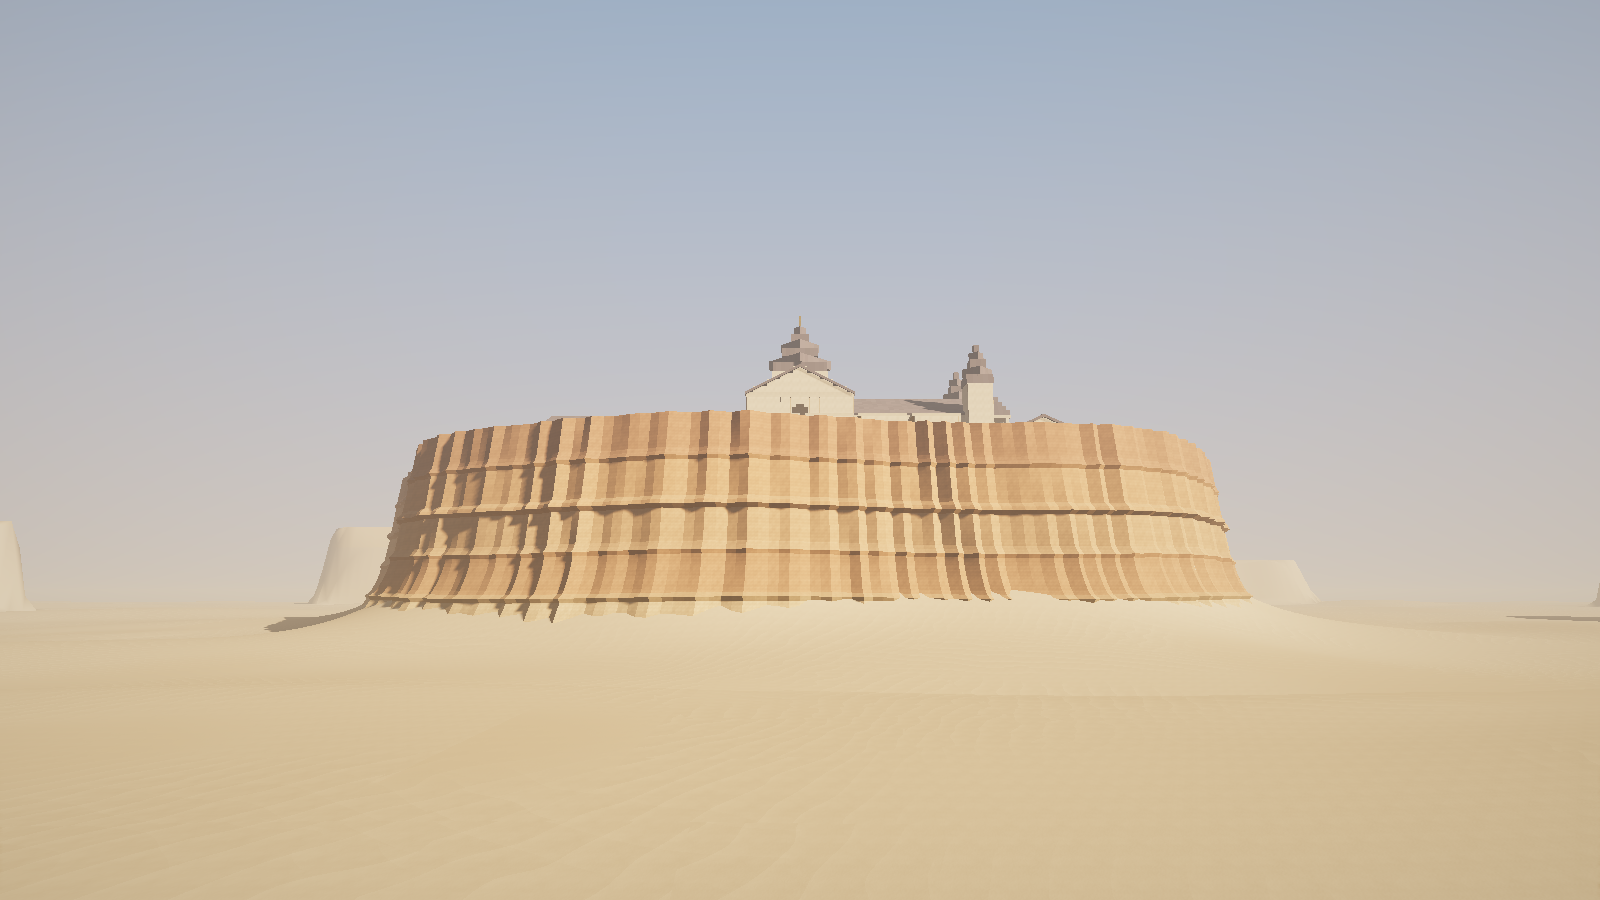
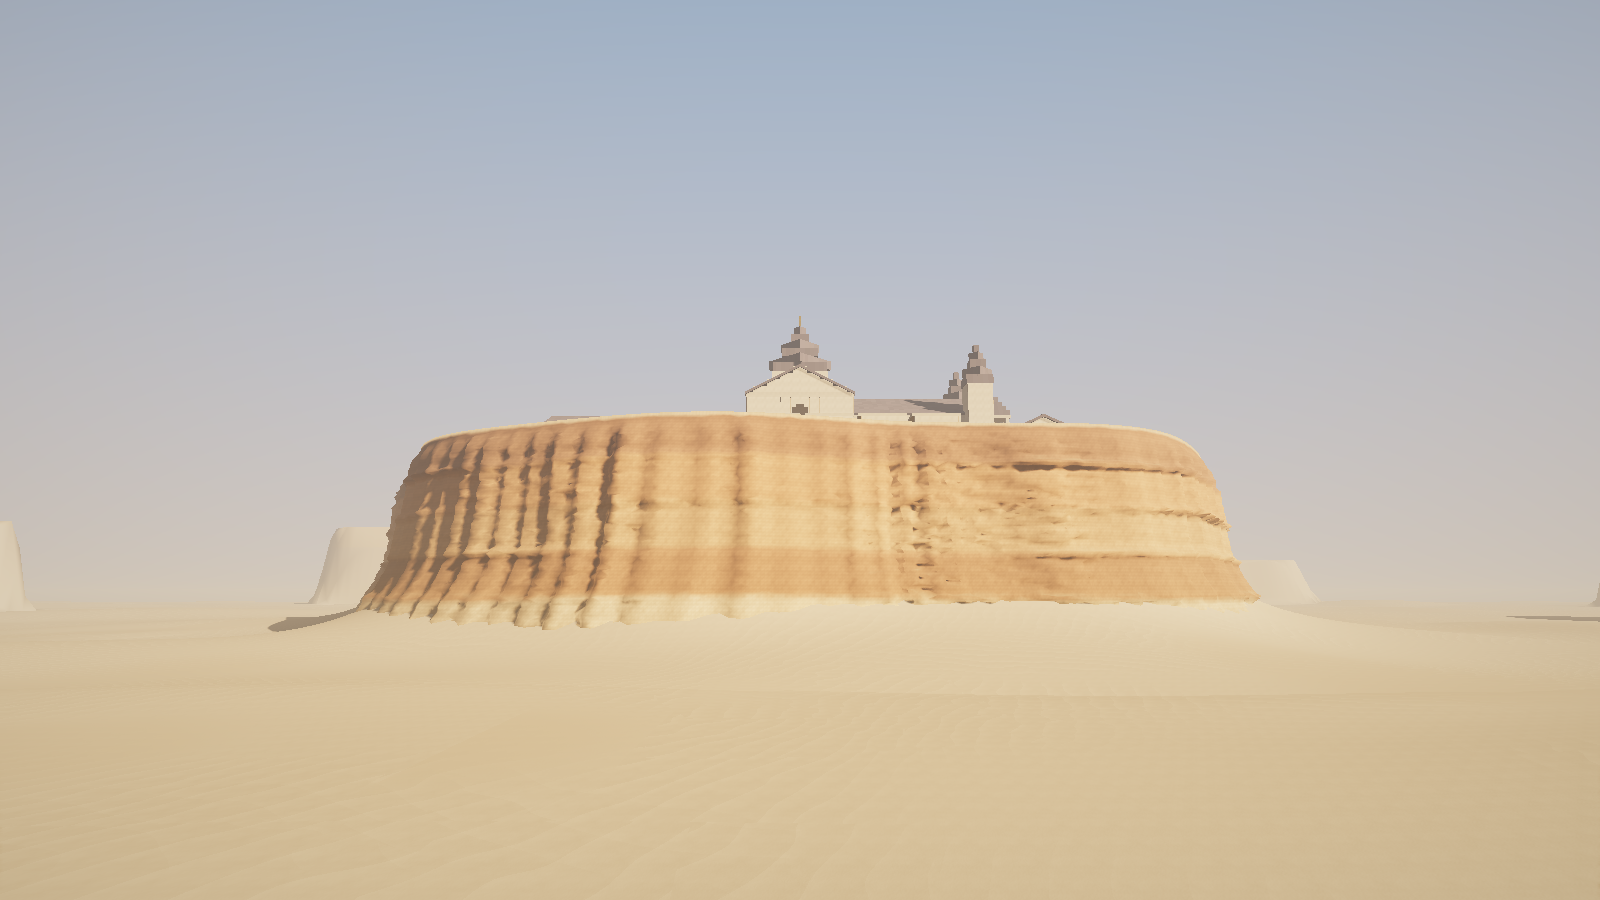
Sanctum cliff: smooth-shaded, jittered rock instead of a tiled grid
The first pass read as a quilted waffle up close: a regular grid of
flat-shaded quads with flat colors and ledges running unbroken round
the mesa. Now the vertices are shared and jittered, the triangle
diagonals alternate, normals are smoothed, colors are per vertex
(bands blending, streaks varying smoothly), ledges come and go along
their band, and the flutes open out below the lip so the rim runs
smooth. The lip's cap reaches in far enough to cover the heightfield's
grid-stepped drop.

Claude-Session: https://claude.ai/code/session_01MEmTqCZq85o86svZvgDnH5

Changed region(s): [[0.2188, 0.4356, 0.7812, 0.7156]]

diff --git a/src/map/sanctum.rs b/src/map/sanctum.rs
@@ -70,10 +70,6 @@ fn past_edge(p: Vec2) -> f32 {
     d.length() - rim(d.y.atan2(d.x))
 }
 
-/// One point down a column of the cliff face: its height, how far out from
-/// the rim it stands, and which band of rock it's in (0: the cap).
-type FacePoint = (f32, f32, u32);
-
 /// The mesa's top: flat round the church, a gentle roll further out.
 fn mesa_top(x: f32, z: f32) -> f32 {
     let r = Vec2::new(x, z).distance(CENTER);
@@ -216,109 +212,159 @@ impl Map {
     }
 
     /// The cliff face: one sculpted surface of rock all round the edge,
-    /// over the heightfield's drop. A lip at the top; fluted columns running
-    /// down it; bands of harder rock stepping out as ledges, each its own
-    /// shade; its foot buried in the scree.
+    /// over the heightfield's drop. A lip at the top; uneven fluted columns
+    /// down it; bands of harder rock set in or out, with ledges that come
+    /// and go along them; its foot flaring into the scree. Smooth shaded,
+    /// its grid jittered so it doesn't read as tiles, its color blended
+    /// between bands and streaked down the face.
     fn cliffs(&mut self) {
-        let m = &mut self.sculpted;
-        let n = 360;
+        use crate::render::mesh::Vertex;
         const BAND: f32 = 8.0;
         const SHADES: [Vec3; 5] = [
-            Vec3::new(0.66, 0.46, 0.32),
-            Vec3::new(0.56, 0.36, 0.25),
-            Vec3::new(0.74, 0.58, 0.42),
-            Vec3::new(0.5, 0.32, 0.23),
-            Vec3::new(0.62, 0.41, 0.28),
+            Vec3::new(0.7, 0.47, 0.31),
+            Vec3::new(0.48, 0.29, 0.19),
+            Vec3::new(0.8, 0.63, 0.45),
+            Vec3::new(0.42, 0.26, 0.18),
+            Vec3::new(0.64, 0.4, 0.26),
         ];
         let hash = |i: u32, k: u32| {
             let h = i.wrapping_mul(0x9E37_79B9) ^ k.wrapping_mul(0x85EB_CA6B);
             let h = (h ^ (h >> 15)).wrapping_mul(0x2C1B_3C6D);
             (h ^ (h >> 12)) as f32 / u32::MAX as f32
         };
+        // Smooth noise along the rim: `cells` bumps round it, seeded by `k`.
+        let wave = |a: f32, cells: f32, k: u32| {
+            let x = a / TAU * cells;
+            let (i, f) = (x.floor(), x.fract());
+            let n = cells as u32;
+            let at = |j: f32| hash((j as i64).rem_euclid(n as i64) as u32, k);
+            let f = f * f * (3.0 - 2.0 * f);
+            at(i) * (1.0 - f) + at(i + 1.0) * f
+        };
         // How far out from the rim the face stands at angle `a`, `depth` m
         // down from the top.
         let face = |a: f32, depth: f32| {
             let s = (depth / 40.0).clamp(0.0, 1.0);
-            // Columns of uneven width: the phase wanders round the rim.
             let phase = a * 120.0 + 9.0 * (a * 3.0).sin() + 4.0 * (a * 7.0 + 1.0).sin();
-            let col = (phase / TAU).floor() as u32;
             let groove =
                 (0.5 + 0.5 * (phase + 0.5 * (depth * 0.11 + a * 13.0).sin()).cos()).powf(0.6);
-            let flute = groove * (0.6 + 1.4 * hash(col, 7)) + 0.4 * (a * 37.0 + depth * 0.05).sin();
+            let flute =
+                groove * (0.6 + 2.0 * wave(a, 60.0, 7)) + 0.4 * (a * 37.0 + depth * 0.05).sin();
             let f = (depth / BAND).fract();
             let band = (depth / BAND).floor() as u32;
-            // Each band set in or out of the face; harder rock at its foot
-            // stepping out as a ledge.
-            let set = 0.9 * (hash(band, 11) - 0.5);
-            let ledge = (0.5 + 0.6 * hash(band, 3)) * smoothstep(0.8, 0.97, f);
-            // The foot flares out into the scree.
-            let flare = 4.0 * smoothstep(0.62, 1.0, s);
-            1.2 + 4.5 * s + flute.max(0.0) + set + ledge + flare
+            let set = 0.9 * (wave(a, 9.0, band + 20) - 0.5);
+            // Ledges come and go along the band.
+            let ledge =
+                1.6 * (1.4 * wave(a, 24.0, band + 40) - 0.35).max(0.0) * smoothstep(0.8, 0.97, f);
+            let flare = 5.0 * smoothstep(0.55, 1.0, s);
+            // The flutes open out below the lip, so the rim runs smooth.
+            let open = smoothstep(0.0, 4.0, depth);
+            1.2 + 4.5 * s + flute.max(0.0) * open + set + ledge + flare
         };
-        // Each column of the face: (height, distance out from the rim).
+        // Color at angle `a`, `depth` down: bands blending into each other,
+        // streaked down the face, darker toward the foot.
+        let shade = |a: f32, depth: f32| {
+            if depth <= 0.0 {
+                return SAND * 0.95;
+            }
+            let b = depth / BAND + 0.15 * (wave(a, 30.0, 3) - 0.5);
+            let (i, f) = (b.floor() as usize, b.fract());
+            let blend = smoothstep(0.9, 1.0, f);
+            let band = SHADES[(i + 3) % SHADES.len()].lerp(SHADES[(i + 4) % SHADES.len()], blend);
+            let streak = 0.9 + 0.14 * wave(a, 160.0, 5) + 0.06 * wave(a, 41.0, 9);
+            band * streak * (1.0 - 0.004 * depth)
+        };
+
+        let n = 360usize;
         let mut depths = vec![0.0f32];
         let mut d = 0.6;
         while d < 41.0 {
             depths.push(d);
             d += 0.7;
         }
-        let profile = |a: f32| -> Vec<FacePoint> {
-            let p = CENTER + Vec2::new(a.cos(), a.sin()) * rim(a);
-            let top = mesa_top(p.x, p.y);
-            // Tucked into the ground, then out to the lip, then down the face.
-            let mut v = vec![(top + 0.2, -0.8, 0), (top + 0.2, face(a, 0.0), 0)];
-            v.extend(
-                depths
-                    .iter()
-                    .skip(1)
-                    .map(|&dp| (top - dp, face(a, dp), 1 + (dp / BAND).floor() as u32)),
-            );
-            v
-        };
-        let rings: Vec<(Vec2, Vec<FacePoint>)> = (0..=n)
-            .map(|i| {
-                let a = i as f32 / n as f32 * TAU;
-                (Vec2::new(a.cos(), a.sin()), profile(a))
-            })
-            .collect();
-        let at = |i: usize, k: usize| {
-            let (dir, ref prof) = rings[i];
-            let a = i as f32 / n as f32 * TAU;
-            let (y, d, _) = prof[k];
-            let p = CENTER + dir * (rim(a) + d);
-            Vec3::new(p.x, y, p.y)
-        };
-        for i in 0..n {
-            let out = (rings[i].0 + rings[i + 1].0).normalize().extend(0.0);
-            let out = Vec3::new(out.x, 0.0, out.y);
-            for k in 0..rings[i].1.len() - 1 {
-                let q = [at(i, k), at(i + 1, k), at(i + 1, k + 1), at(i, k + 1)];
-                let mut nrm = (q[1] - q[0]).cross(q[3] - q[0]).normalize_or_zero();
-                if k == 0 {
-                    // The cap over the lip faces up.
-                    if nrm.y < 0.0 {
-                        nrm = -nrm;
+        let rows = depths.len() + 1;
+        // Vertex grid: column `i` round the rim (the last repeats the first),
+        // row 0 tucked into the ground, row 1 the lip, then down the face.
+        let mut pos = vec![Vec3::ZERO; (n + 1) * rows];
+        let mut col = vec![Vec3::ZERO; (n + 1) * rows];
+        for i in 0..=n {
+            let ii = (i % n) as u32;
+            for r in 0..rows {
+                // Jitter everything but the top two rows, so the grid breaks up.
+                let (ja, jd) = if r < 2 {
+                    (0.0, 0.0)
+                } else {
+                    (
+                        hash(ii, r as u32 * 2) - 0.5,
+                        hash(ii, r as u32 * 2 + 1) - 0.5,
+                    )
+                };
+                let a = (i as f32 + ja * 0.6) / n as f32 * TAU;
+                let dir = Vec2::new(a.cos(), a.sin());
+                let rim_p = CENTER + dir * rim(a);
+                let top = mesa_top(rim_p.x, rim_p.y);
+                let (y, out, depth) = match r {
+                    0 => (top + 0.05, -4.5, 0.0),
+                    1 => (top + 0.35, face(a, 0.0), 0.0),
+                    _ => {
+                        let dp = (depths[r - 1] + jd * 0.4).max(0.3);
+                        (top - dp, face(a, dp), dp)
                     }
-                } else if nrm.dot(out) < 0.0 {
-                    nrm = -nrm;
-                }
-                let band = rings[i].1[k + 1].2;
-                let base = if band == 0 {
-                    SAND * 0.95
-                } else {
-                    SHADES[(band as usize + 2) % SHADES.len()]
                 };
-                // Streaked down the face, darker toward its foot.
-                let depth = (rings[i].1[0].0 - rings[i].1[k + 1].0).max(0.0);
-                let c = base * (0.93 + 0.08 * hash(i as u32 / 2, 5)) * (1.0 - 0.004 * depth);
-                // Wind the quad to face along its normal.
-                let q = if (q[1] - q[0]).cross(q[3] - q[0]).dot(nrm) < 0.0 {
-                    [q[0], q[3], q[2], q[1]]
-                } else {
-                    q
-                };
-                m.quad(q, nrm, c.extend(Material::Rubble.id()));
+                let p = CENTER + dir * (rim(a) + out);
+                pos[i * rows + r] = Vec3::new(p.x, y, p.y);
+                col[i * rows + r] = shade(a, depth);
             }
+        }
+        // Triangles, wound to face out (the cap up), diagonals alternating;
+        // each vertex's normal the sum of its faces'.
+        let mut tris = Vec::new();
+        let mut nrm = vec![Vec3::ZERO; pos.len()];
+        for i in 0..n {
+            let out = Vec2::new(
+                ((i as f32 + 0.5) / n as f32 * TAU).cos(),
+                ((i as f32 + 0.5) / n as f32 * TAU).sin(),
+            );
+            let out = Vec3::new(out.x, 0.0, out.y);
+            for r in 0..rows - 1 {
+                let v = |i: usize, r: usize| i * rows + r;
+                let q = [v(i, r), v(i + 1, r), v(i + 1, r + 1), v(i, r + 1)];
+                let pair = if (i + r) % 2 == 0 {
+                    [[q[0], q[1], q[2]], [q[0], q[2], q[3]]]
+                } else {
+                    [[q[0], q[1], q[3]], [q[1], q[2], q[3]]]
+                };
+                for mut t in pair {
+                    let mut fnrm = (pos[t[1]] - pos[t[0]]).cross(pos[t[2]] - pos[t[0]]);
+                    let want = if r == 0 { Vec3::Y } else { out };
+                    if fnrm.dot(want) < 0.0 {
+                        t.swap(1, 2);
+                        fnrm = -fnrm;
+                    }
+                    for &k in &t {
+                        nrm[k] += fnrm;
+                    }
+                    tris.push(t);
+                }
+            }
+        }
+        // The seam: the last column is the first again.
+        for r in 0..rows {
+            let sum = nrm[r] + nrm[n * rows + r];
+            nrm[r] = sum;
+            nrm[n * rows + r] = sum;
+        }
+        let m = &mut self.sculpted;
+        let base = m.verts.len() as u32;
+        for k in 0..pos.len() {
+            m.verts.push(Vertex {
+                pos: pos[k].to_array(),
+                normal: nrm[k].normalize_or_zero().to_array(),
+                color: col[k].extend(Material::Rubble.id()).to_array(),
+            });
+        }
+        for t in tris {
+            m.indices.extend(t.iter().map(|&k| base + k as u32));
         }
     }
 
